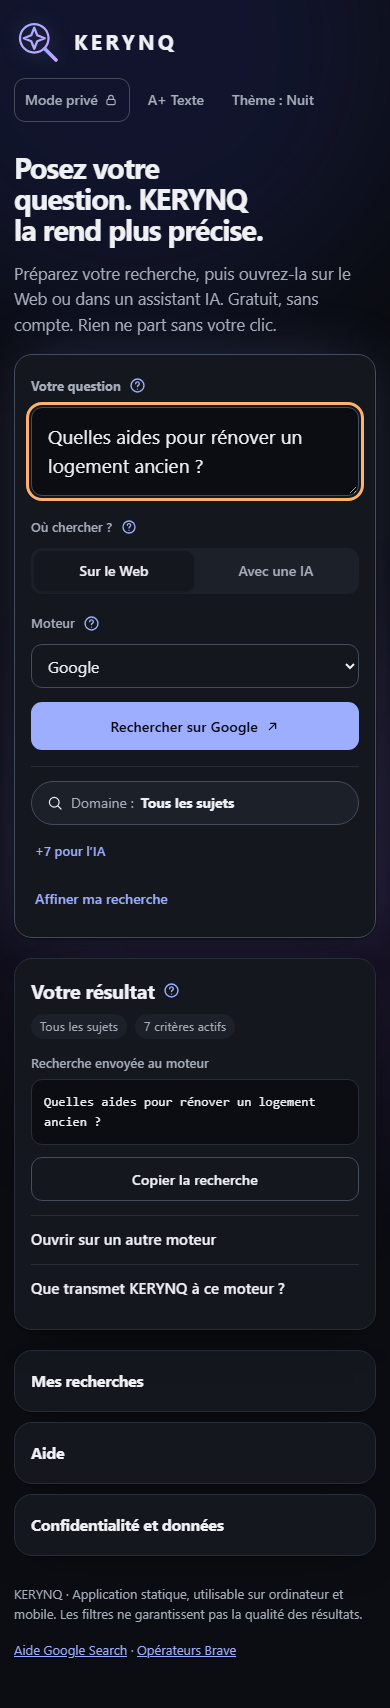
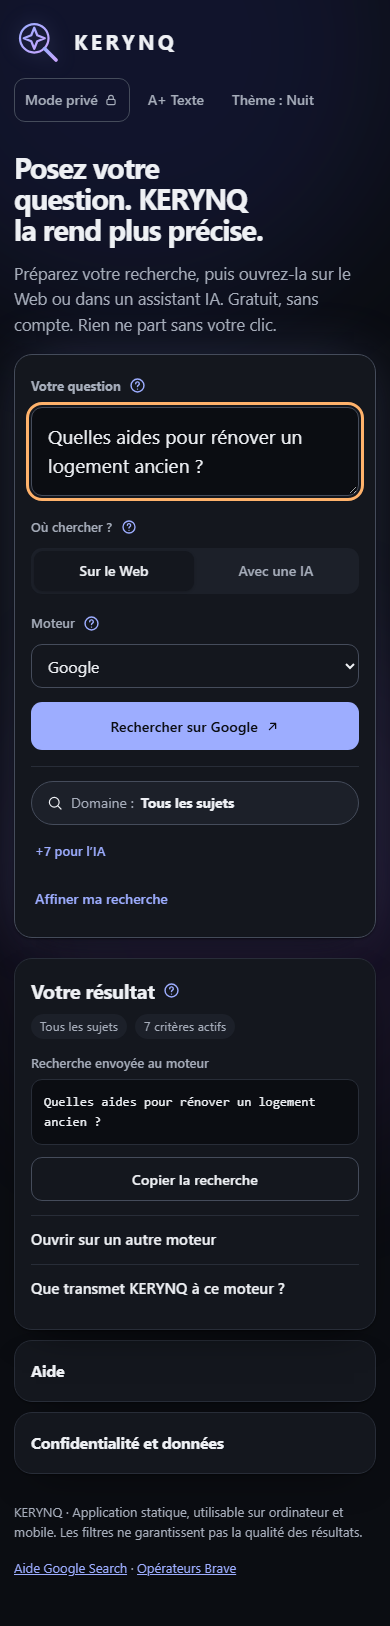
feat: remove saved searches section
Keep stored favorites in the browser and in profile exports.

diff --git a/assets/js/app.js b/assets/js/app.js
@@ -10,7 +10,7 @@ function updatePrivateUI(){
  $('privateSearchInfo').textContent=privateMode
   ?'Mode privé actif : aucune nouvelle recherche ni modification de filtre n’est conservée localement. Les moteurs externes voient toujours vos requêtes. Quitter ce mode effacera les champs privés.'
   :'Mode privé désactivé : vos réglages et votre recherche peuvent être enregistrés sur cet appareil. Les moteurs externes reçoivent les requêtes lancées.';
- for(const id of ['saveResearch','exportConfig','importConfig'])$(id).disabled=privateMode;
+ for(const id of ['exportConfig','importConfig'])$(id).disabled=privateMode;
 }
 function togglePrivateMode(){
  if(!privateMode){
@@ -20,7 +20,7 @@ function togglePrivateMode(){
   updatePrivateUI();notify('Mode privé activé : aucune recherche en cours enregistrée');
  }else{
   privateMode=false;
-  state=load();initOptions(state.category);sync();renderSaved();
+  state=load();initOptions(state.category);sync();
   updatePrivateUI();notify('Mode privé désactivé : champs temporaires effacés');
  }
 }
@@ -29,9 +29,8 @@ function eraseAllKerynqData(){
  const keys=[LS,SAVED_KEY,CUSTOM_TEMPLATES_KEY,'kerynq-premium-v1',WELCOME_KEY];
  try{for(const key of keys)localStorage.removeItem(key)}catch{notify('Effacement incomplet : vérifier les données du navigateur');return}
  privateMode=false;state=clone(DEFAULT);initOptions(state.category);$('categorySearch').value='';summaryOpen=false;
- $('favoriteTitle').value='';$('favoriteFolder').value='';$('favoriteSearch').value='';
  suppressSave=true;
- try{sync();renderSaved();updatePrivateUI()}
+ try{sync();updatePrivateUI()}
  finally{suppressSave=false}
  notify('Données locales KERYNQ effacées');
 }
@@ -230,25 +229,13 @@ $('profileFile').addEventListener('change',async e=>{const file=e.target.files&&
    if(imported.favorites!==null)localStorage.setItem(SAVED_KEY,JSON.stringify(imported.favorites));
    if(imported.templates!==null)localStorage.setItem(CUSTOM_TEMPLATES_KEY,JSON.stringify(imported.templates));
   }catch(storageError){for(let i=0;i<keys.length;i++)try{if(previous[i]===null)localStorage.removeItem(keys[i]);else localStorage.setItem(keys[i],previous[i])}catch{}throw Error('Stockage indisponible ou plein : import annulé')}
-  state=imported.settings;initOptions(state.category);sync();renderSaved();
+  state=imported.settings;initOptions(state.category);sync();
   notify('Import validé et appliqué');
  }catch(err){notify('Import impossible : '+err.message)}finally{e.target.value=''}
 });
 $('reset').addEventListener('click',()=>{if(!window.confirm('Effacer tous les réglages et critères personnalisés de KERYNQ ?'))return;state=clone(DEFAULT);initOptions(state.category);$('categorySearch').value='';save();sync();notify('Préférences KERYNQ réinitialisées')});}setup();setupV5();
 const SAVED_KEY='kerynq-saved-v1';
 function getSaved(){return readStoredItems(SAVED_KEY,'favoris')}
-function putSaved(data){try{localStorage.setItem(SAVED_KEY,JSON.stringify(data.slice(0,80)))}catch{notify('Sauvegarde locale indisponible')}}
-function renderFolders(){const select=$('folderFilter'),selected=select.value,folders=[...new Set(getSaved().map(x=>x.folder||'Général'))].sort((a,b)=>a.localeCompare(b,'fr'));select.replaceChildren();const all=node('option','','Tous les dossiers');all.value='';select.append(all);for(const f of folders){const o=node('option','',f);o.value=f;select.append(o)}select.value=folders.includes(selected)?selected:''}
-function renderSaved(){renderFolders();const root=$('savedList');root.replaceChildren();let items=getSaved();const folder=$('folderFilter').value;const query=$('favoriteSearch').value.trim().toLocaleLowerCase('fr');if(folder)items=items.filter(x=>(x.folder||'Général')===folder);if(query)items=items.filter(x=>[x.name,x.topic,x.folder,x.category].join(' ').toLocaleLowerCase('fr').includes(query));items.sort((a,b)=>Number(!!b.pinned)-Number(!!a.pinned));
- if(!items.length){root.append(node('p','saved-empty',getSaved().length?'Aucun favori ne correspond aux filtres.':'Aucun favori enregistré. Vos recherches restent sur cet appareil.'));return}
- for(const item of items){const row=node('div','saved-entry');const load=node('button','saved-load');load.type='button';load.dataset.savedId=item.id;const name=item.name||item.topic||'Sans titre';load.append(node('strong','',name),node('small','',(item.folder||'Général')+' · '+(item.category||'Tous les sujets')));load.setAttribute('aria-label','Charger le favori '+name);load.addEventListener('click',()=>{state=normalize(KerynqPrivacy.withCurrentPreferences(item.settings,state));initOptions(state.category);save();sync();notify('Favori restauré : '+name);$('topic').focus()});
- const actions=node('span','saved-actions');const pin=node('button','icon-action ico '+(item.pinned?'ico-star-on':'ico-star'));pin.type='button';pin.dataset.savedPin=item.id;pin.title=item.pinned?'Détacher':'Épingler';pin.setAttribute('aria-label',(item.pinned?'Détacher':'Épingler')+' le favori '+name);pin.addEventListener('click',()=>{const entries=getSaved();const x=entries.find(x=>x.id===item.id);if(x)x.pinned=!x.pinned;putSaved(entries);renderSaved();[...$('savedList').querySelectorAll('[data-saved-pin]')].find(b=>b.dataset.savedPin===item.id)?.focus()});
- const rename=node('button','icon-action ico ico-edit');rename.type='button';rename.title='Renommer';rename.setAttribute('aria-label','Renommer '+name);rename.addEventListener('click',()=>{const editor=document.createElement('input');editor.className='mini-field saved-editor';editor.maxLength=90;editor.value=name;editor.setAttribute('aria-label','Nouveau nom du favori '+name);load.replaceWith(editor);editor.focus();editor.select();let completed=false;const commit=()=>{if(completed)return;completed=true;const entries=getSaved(),x=entries.find(x=>x.id===item.id);if(x)x.name=editor.value.trim().slice(0,90)||name;putSaved(entries);renderSaved()};editor.addEventListener('keydown',e=>{if(e.key==='Enter')commit();if(e.key==='Escape'){completed=true;renderSaved()}});editor.addEventListener('blur',commit)});
- const rm=node('button','icon-action ico ico-close');rm.type='button';rm.title='Supprimer';rm.setAttribute('aria-label','Supprimer le favori '+name);rm.addEventListener('click',()=>{const after=[...$('savedList').querySelectorAll('.saved-load')].map(b=>b.dataset.savedId);const next=after[after.indexOf(item.id)+1]??after[after.indexOf(item.id)-1];putSaved(getSaved().filter(x=>x.id!==item.id));renderSaved();notify('Favori supprimé');([...$('savedList').querySelectorAll('.saved-load')].find(b=>b.dataset.savedId===next)||$('favoriteSearch')).focus()});actions.append(pin,rename,rm);row.append(load,actions);root.append(row)}
-}
-function saveResearch(){if(privateMode)return notify('Quittez le mode privé pour enregistrer un favori');if(!state.topic.trim()){notify('Saisissez un sujet pour enregistrer le favori');$('topic').focus();return}const list=getSaved();if(list.length>=80){notify('Limite de 80 favoris : supprimez-en avant d’ajouter');return}const entry={id:String(Date.now())+'-'+Math.random().toString(36).slice(2),name:$('favoriteTitle').value.trim().slice(0,90)||state.topic.trim().slice(0,90),topic:state.topic.trim().slice(0,160),folder:$('favoriteFolder').value.trim().slice(0,50)||'Général',category:topicById(state.category).name,pinned:false,settings:clone(state)};putSaved([entry,...list]);$('favoriteTitle').value='';renderSaved();notify('Recherche enregistrée sur cet appareil')}
-$('folderFilter').addEventListener('change',renderSaved);$('favoriteSearch').addEventListener('input',renderSaved);
-$('saveResearch').addEventListener('click',saveResearch);
 $('privateSearchToggle').addEventListener('click',togglePrivateMode);
 $('clearAllData').addEventListener('click',eraseAllKerynqData);
 updatePrivateUI();
@@ -266,6 +253,5 @@ async function openAssistant(){
  window.open(url,'_blank','noopener,noreferrer');
  notify('Texte copié : collez-le dans la conversation de l’IA');
 }
-renderSaved();
 
 })();

diff --git a/assets/css/styles.css b/assets/css/styles.css
@@ -69,7 +69,6 @@ kbd{font:inherit;font-size:.75rem;border:1px solid var(--line-strong);border-rad
 .layout{display:grid;grid-template-columns:minmax(0,1fr) minmax(320px,420px);gap:20px;align-items:start}
 .main-stack{display:grid;gap:20px;min-width:0}
 .panel{padding:clamp(16px,2.5vw,26px);min-width:0}
-.saved-panel,.layout+.panel{margin-top:20px}
 .panel+.panel{margin-top:20px}
 .main-stack .panel+.panel{margin-top:0}
 h2{font-size:1.25rem;letter-spacing:-.015em;font-weight:680}
@@ -126,18 +125,6 @@ body[data-mode="advanced"] .quick-filter-section{display:none!important}
 .compat-line span{color:var(--muted)}
 .compat-applied strong{color:var(--ok)}
 
-.saved-grid{display:grid;grid-template-columns:minmax(0,1fr) minmax(0,1.4fr);gap:20px;margin-top:14px}
-.save-fields,.saved-list{display:grid;gap:8px;align-content:start}
-.folder-tools{display:grid;grid-template-columns:repeat(2,minmax(0,1fr));gap:8px;margin-bottom:10px}
-.saved-entry{display:flex;align-items:center;gap:6px;border:1px solid var(--line);border-radius:var(--radius-sm);padding:4px 6px}
-.saved-load{flex:1;min-width:0;min-height:44px;background:none;border:0;text-align:left;cursor:pointer;padding:4px 6px;border-radius:8px}
-.saved-load strong{display:block;font-size:.875rem}
-.saved-load small{display:block;color:var(--muted);font-size:.78rem}
-.saved-editor{flex:1;min-width:0}
-.saved-actions{display:flex}
-.icon-action{min-width:40px;min-height:44px;border:0;background:none;border-radius:8px;cursor:pointer}
-.icon-action:hover{background:var(--soft)}
-.saved-empty{color:var(--muted);font-size:.875rem}
 .privacy-row{display:flex;align-items:center;gap:14px;margin-top:12px;flex-wrap:wrap}
 .privacy-row .sub{flex:1 1 280px;margin:0}
 #privateSearchToggle[aria-pressed="true"]{border-color:var(--ok);color:var(--ok)}
@@ -150,7 +137,6 @@ body[data-mode="advanced"] .quick-filter-section{display:none!important}
 @media(max-width:960px){
   .layout{grid-template-columns:minmax(0,1fr)}
   .preview{position:static;max-height:none;overflow:visible}
-  .saved-grid{grid-template-columns:minmax(0,1fr)}
   .hint{display:none}
 }
 @media(max-width:600px){
@@ -164,7 +150,6 @@ body[data-mode="advanced"] .quick-filter-section{display:none!important}
   .mode-switch{display:flex;width:100%}
   .mode-switch button{flex:1;padding-inline:6px}
   .category-tools .text-search{flex:1 1 100%}
-  .folder-tools{grid-template-columns:minmax(0,1fr)}
 }
 @media(prefers-reduced-motion:reduce){*,*::before,*::after{scroll-behavior:auto!important;transition:none!important}}
 

diff --git a/index.html b/index.html
@@ -118,14 +118,6 @@
 </aside>
 </main>
 
-<details class="panel fold-panel saved-panel">
-  <summary><h2 id="savedTitle">Mes recherches</h2></summary><p class="sub">Enregistrées uniquement dans ce navigateur, sans chiffrement.</p>
-  <div class="saved-grid">
-    <div class="save-fields"><label class="sr-only" for="favoriteTitle">Nom du favori</label><input id="favoriteTitle" class="field" maxlength="90" placeholder="Nom (facultatif)"><label class="sr-only" for="favoriteFolder">Dossier du favori</label><input id="favoriteFolder" class="field" maxlength="50" placeholder="Dossier : Général"><button id="saveResearch" type="button" class="btn">Enregistrer cette recherche</button></div>
-    <div><div class="folder-tools"><label class="sr-only" for="folderFilter">Filtrer par dossier</label><select id="folderFilter" class="field"><option value="">Tous les dossiers</option></select><label class="sr-only" for="favoriteSearch">Filtrer les favoris</label><input type="search" id="favoriteSearch" class="field" placeholder="Filtrer"></div><div id="savedList" class="saved-list" aria-live="polite"></div></div>
-  </div>
-</details>
-
 <details class="panel fold-panel">
   <summary><h2 id="helpTitle">Aide</h2></summary>
   <details class="details"><summary>À quoi sert KERYNQ ?</summary><p class="sub">Il transforme votre question en recherche plus précise. Il n’affiche pas de résultats : ils s’ouvrent chez le moteur ou l’assistant que vous choisissez.</p></details>

diff --git a/tests/browser/regressions-browser-smoke.py b/tests/browser/regressions-browser-smoke.py
@@ -23,14 +23,6 @@ def open_app(browser,width,storage=None):
 with sync_playwright() as p:
     browser=p.chromium.launch(headless=True,executable_path=os.environ.get('KERYNQ_CHROMIUM') or None)
     for width in (1440,320):
-        # Une entrée invalide ne masque ni n'écrase les favoris valides.
-        ctx,page,errors=open_app(browser,width,{'kerynq-saved-v1':[{'id':1,'settings':{}},GOOD('ok','Favori sain')]})
-        assert page.locator('.saved-entry').count()==1
-        assert 'ignorée' in page.locator('#status').inner_text()
-        page.locator('#topic').fill('Nouveau');page.locator('#saveResearch').click()
-        assert page.locator('.saved-entry').count()==2
-        assert 'Favori sain' in page.locator('#savedList').inner_text()
-        assert not errors,errors;ctx.close()
         # Ctrl+Entrée lance la recherche sans copier la consigne.
         ctx,page,errors=open_app(browser,width)
         page.locator('#topic').fill('Sujet')
@@ -40,17 +32,6 @@ with sync_playwright() as p:
         assert page.evaluate('window.kerynqTestCopy===undefined')
         assert len(ctx.pages)==2,len(ctx.pages)
         assert not errors,errors;ctx.close()
-        # Un favori ou un modèle restaure la recherche, pas les préférences.
-        prefs={'theme':'light','largeText':True,'aiProvider':'claude'}
-        ctx,page,errors=open_app(browser,width,{'kerynq-saved-v1':[GOOD('f','Favori',engine='brave',**prefs)],'kerynq-v5-templates':[{'id':'t','label':'Modele','settings':{'topic':'Modele',**prefs}}]})
-        def assert_prefs():
-            assert page.evaluate('document.documentElement.dataset.theme')=='dark'
-            assert not page.evaluate("document.body.classList.contains('large-text')")
-            assert page.locator('#aiProvider').input_value()=='chatgpt'
-        page.locator('.saved-load').click()
-        assert page.locator('#topic').input_value()=='Favori' and page.locator('#engineSelect').input_value()=='brave'
-        assert_prefs()
-        assert not errors,errors;ctx.close()
         # Les sites ignorés sont signalés.
         ctx,page,errors=open_app(browser,width)
         page.locator('#topic').fill('Sujet');page.locator('#includeSites').fill('a.fr b.fr, ameli.fr')
@@ -58,21 +39,6 @@ with sync_playwright() as p:
         assert 'Sites ignorés' in compat and 'a.fr b.fr' in compat
         page.locator('#includeSites').fill('ameli.fr')
         assert 'Sites ignorés' not in page.locator('#queryCompatibility').inner_text()
-        assert not errors,errors;ctx.close()
-        # Le focus reste utilisable au clavier après les actions sur les favoris.
-        ctx,page,errors=open_app(browser,width,{'kerynq-saved-v1':[GOOD('a','Premier'),GOOD('b','Second')]})
-        pin=page.get_by_role('button',name='Épingler le favori Second')
-        pin.focus();pin.press('Enter')
-        assert page.evaluate('document.activeElement.getAttribute("aria-label")')=='Détacher le favori Second'
-        page.get_by_role('button',name='Renommer Premier').click()
-        assert page.locator('.saved-editor').get_attribute('aria-label')=='Nouveau nom du favori Premier'
-        page.keyboard.press('Escape')
-        rm=page.get_by_role('button',name='Supprimer le favori Premier')
-        rm.focus();rm.press('Enter')
-        assert page.evaluate('document.activeElement.getAttribute("aria-label")')=='Charger le favori Second'
-        rm=page.get_by_role('button',name='Supprimer le favori Second')
-        rm.focus();rm.press('Enter')
-        assert page.evaluate('document.activeElement.id')=='favoriteSearch'
         assert not errors,errors;ctx.close()
         # Le parcours IA copie le texte, ouvre l'assistant sans la consigne dans l'adresse, et le bouton principal l'annonce.
         ctx,page,errors=open_app(browser,width)
@@ -273,12 +239,14 @@ with sync_playwright() as p:
             now=page.evaluate("s=>Object.fromEntries(%s.map(id=>[id,KerynqSearch.compile(KerynqCatalog.normalize(s),id,new Date('2026-01-15T12:00:00')).query]))"%json.dumps(golden['engines']),case['input'])
             assert now==case['queries'],case['input']
             ctx.close()
-        # Favori et profil anciens, écrits avant la refonte, restent lisibles.
+        # Un ancien profil reste lisible ; favoris et modèles déjà enregistrés sont conservés et exportés.
         old={'mode':'advanced','showAll':True,'category':'law','topic':'Ancien profil','previewTab':'prompt','aiProvider':'claude'}
-        ctx,page,errors=open_app(browser,width,{'kerynq-premium-v5':old,'kerynq-saved-v1':[GOOD('v','Vieux favori',category='manga',engine='brave')]})
+        ctx,page,errors=open_app(browser,width,{'kerynq-premium-v5':old,'kerynq-saved-v1':[GOOD('v','Vieux favori',category='manga')]})
         assert 'Droit' in page.locator('#domainName').inner_text() and page.locator('#aiProvider').input_value()=='claude'
-        page.locator('.saved-load').click()
-        assert 'Mangas' in page.locator('#domainName').inner_text() and page.locator('#engineSelect').input_value()=='brave'
+        assert page.locator('#savedList,#saveResearch').count()==0
+        assert 'Vieux favori' in page.evaluate("localStorage.getItem('kerynq-saved-v1')")
+        with page.expect_download() as dl:page.locator('#exportConfig').click()
+        assert 'Vieux favori' in Path(dl.value.path()).read_text(encoding='utf-8')
         assert not errors,errors;ctx.close()
         # Un fournisseur importé ne peut pas viser une propriété héritée.
         ctx,page,errors=open_app(browser,width,{'kerynq-premium-v5':{'aiProvider':'constructor'}})

diff --git a/docs/UX_REFONTE.md b/docs/UX_REFONTE.md
@@ -24,7 +24,8 @@ Le résultat suit. Sans question, il se limite à une phrase et à deux exemples
 | Critères actifs | Liste retirable, limitée à trois, puis « +N » | Le compteur inclut tous les critères actifs, même repliés. |
 | Web ou IA dans le résumé | Vert : transmis au moteur choisi, d'après le compilateur. Pointillés : texte pour une IA seulement | Le classement suit le moteur choisi. La région est transmise à certains moteurs, pas à Google. |
 | Bouton « Copier et ouvrir » du panneau | Retiré | Il doublait l'action principale. |
-| Aide, favoris, données | Sections repliées en bas de page | Toujours accessibles, moins de concurrence visuelle. |
+| Aide, données | Sections repliées en bas de page | Toujours accessibles, moins de concurrence visuelle. |
+| Mes recherches | Retiré à la demande du propriétaire | Les favoris déjà enregistrés restent dans le navigateur et dans les sauvegardes, sans pouvoir être rechargés depuis la page. |
 | Domaines récents | Non ajoutés | La liste filtrable suffit et cela alourdirait le parcours. |
 | Style | Moins d'animations, de dégradés et de verre ; polices et thèmes conservés | Les couleurs d'accent marquent l'action et l'état actif. |
 
@@ -53,7 +54,7 @@ Avant, puis après, sur mobile :
 
 ## Contrôles
 
-Automatiques, sous Playwright : parcours en 1440, 768, 390 et 320 px, clavier du sélecteur, focus après sélection, retrait d'un critère, conservation des réglages, anciens favoris et profils, tous les thèmes, reflow équivalent à un zoom de 200 % et 400 %, PWA hors ligne.
+Automatiques, sous Playwright : parcours en 1440, 768, 390 et 320 px, clavier du sélecteur, focus après sélection, retrait d'un critère, conservation des réglages, anciens profils et conservation des favoris, tous les thèmes, reflow équivalent à un zoom de 200 % et 400 %, PWA hors ligne.
 
 Non vérifié : Safari et Chrome réels, téléphones réels, lecteurs d'écran, vrai zoom du navigateur, GitHub Pages. Ces contrôles ne valent pas conformité WCAG : aucun audit complet n'a été réalisé.
 

diff --git a/CHANGELOG.md b/CHANGELOG.md
@@ -8,7 +8,7 @@ Ce journal suit les changements vérifiables de KERYNQ. Les versions décrivent 
 - Sélecteur de domaine compact, filtrable au clavier et groupé par famille.
 - Réglages fermés par défaut, en sections repliables. Réglages réservés à l'IA masqués en mode Web, sans être perdus.
 - Résumé des critères actifs, retirables un par un, distinguant ce qui est transmis au moteur.
-- Résultat compact sans question. Détails techniques, favoris, aide et données repliés.
+- Résultat compact sans question. Détails techniques, aide et données repliés. Section « Mes recherches » retirée, favoris conservés dans les sauvegardes.
 - Six moteurs d'images (29 au total), cinq thèmes (11 au total). Section « Partir d'un modèle » retirée, modèles conservés dans les sauvegardes.
 - Tests d'équivalence des requêtes et consignes par rapport à `main`. Voir [docs/UX_REFONTE.md](docs/UX_REFONTE.md).
 
